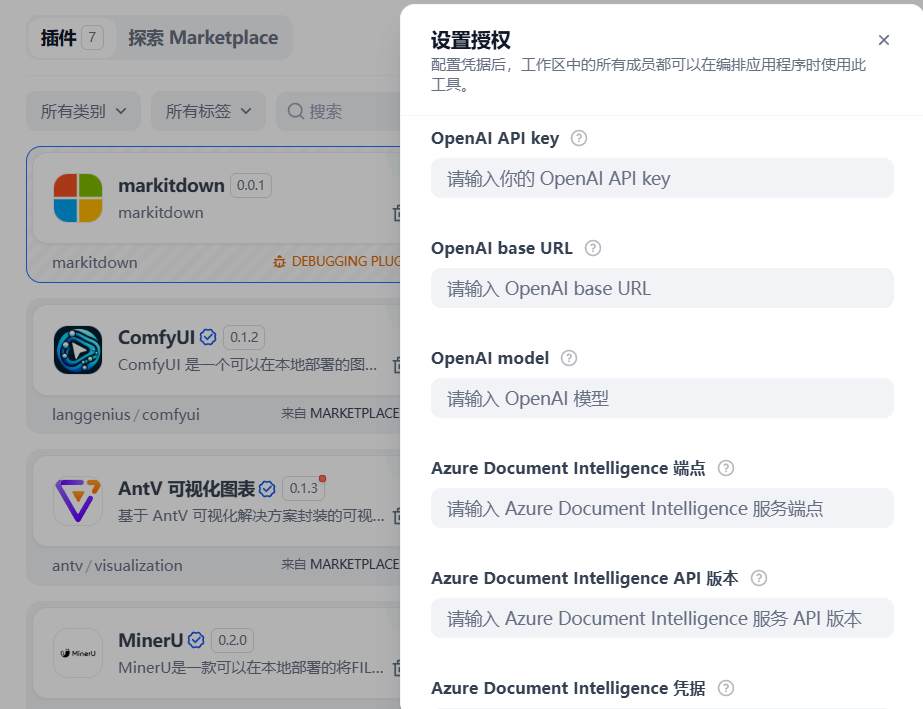
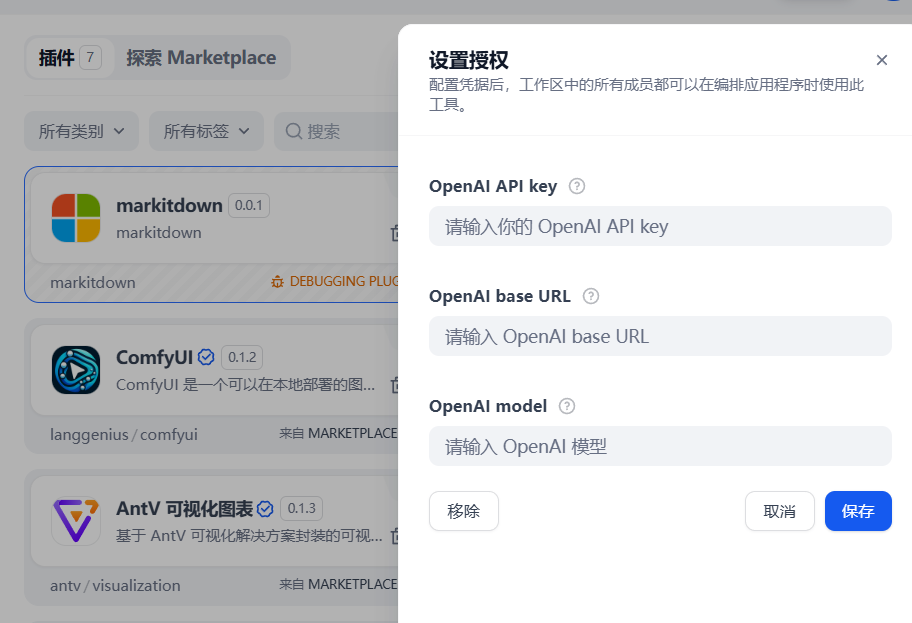
Initial commit: Add markitdown plugin files

Changed region(s): [[0.0, 0.0, 1.0, 1.0], [0.307, 0.122, 0.3684, 0.244], [0.0307, 0.0305, 0.0921, 0.122]]

diff --git a/tools/markitdown.py b/tools/markitdown.py
@@ -26,7 +26,6 @@ class MarkitdownTool(Tool):
     def parser_file(self, tool_parameters: Dict[str, Any]) -> Generator[ToolInvokeMessage, None, None]:
         """Parse file."""
         file: File = tool_parameters.get('file')
-        keep_data_uris: bool = tool_parameters.get('keep_data_uris', False)
 
         if not re.match(r'^https?://', file.url):
             file.url = f"http://{os.getenv("EXPOSE_PLUGIN_DEBUGGING_HOST", self.get_local_ip())}{file.url}"
@@ -62,45 +61,20 @@ class MarkitdownTool(Tool):
             api_key = self.runtime.credentials.get("openai_api_key")
             model = self.runtime.credentials.get("openai_model")
 
-            azure_document_intelligence_endpoint = self.runtime.credentials.get(
-                "azure_document_intelligence_endpoint"
-            )
-            azure_document_intelligence_credential = self.runtime.credentials.get(
-                "azure_document_intelligence_credential"
-            )
-            azure_document_intelligence_api_version = self.runtime.credentials.get(
-                "azure_document_intelligence_api_version"
-            )
-            azure_api_key = self.runtime.credentials.get("azure_api_key")
-
-            if azure_document_intelligence_endpoint:
-                markitdown_docintel_args: Dict[str, Any] = {}
-                markitdown_docintel_args["docintel_endpoint"] = azure_document_intelligence_endpoint
-                if azure_document_intelligence_credential:
-                    markitdown_docintel_args["docintel_credential"] = azure_document_intelligence_credential
-                if azure_document_intelligence_api_version:
-                    markitdown_docintel_args["docintel_api_version"] = azure_document_intelligence_api_version
-                if azure_api_key:
-                    os.environ["AZURE_API_KEY"] = azure_api_key
-
-                markitdown = MarkItDown(
-                    **markitdown_docintel_args, keep_data_uris=keep_data_uris
-                )
-            elif base_url and api_key and model:
+            if base_url and api_key and model:
                 client = OpenAI(
                     base_url=base_url,
                     api_key=api_key
                 )
                 markitdown = MarkItDown(
-                    llm_client=client, llm_model=model, keep_data_uris=keep_data_uris
+                    llm_client=client, llm_model=model
                 )
             else:
-                markitdown = MarkItDown(keep_data_uris=keep_data_uris)
+                markitdown = MarkItDown()
 
             result = markitdown.convert(
                 file.url,
-                stream_info=stream_info,
-                keep_data_uris=True
+                stream_info=stream_info
             )
 
             yield self.create_text_message(result.markdown)

diff --git a/provider/markitdown.py b/provider/markitdown.py
@@ -13,21 +13,7 @@ class MarkitdownProvider(ToolProvider):
 
     def _validate_credentials(self, credentials: dict[str, Any]) -> None:
         try:
-            if credentials["azure_document_intelligence_endpoint"]:
-                markitdown_docintel_args: Dict[str, Any] = {}
-                markitdown_docintel_args["docintel_endpoint"] = credentials["azure_document_intelligence_endpoint"]
-
-                if credentials["azure_document_intelligence_credential"]:
-                    markitdown_docintel_args["docintel_credential"] = credentials["azure_document_intelligence_credential"]
-
-                if credentials["azure_document_intelligence_api_version"]:
-                    markitdown_docintel_args["docintel_api_version"] = credentials["azure_document_intelligence_api_version"]
-
-                if credentials["azure_api_key"]:
-                    os.environ["AZURE_API_KEY"] = credentials["azure_api_key"]
-
-                markitdown = MarkItDown(**markitdown_docintel_args)
-            elif credentials["openai_api_key"] and credentials["openai_base_url"] and credentials["openai_model"]:
+            if credentials["openai_api_key"] and credentials["openai_base_url"] and credentials["openai_model"]:
                 client = OpenAI(
                     api_key=credentials["openai_api_key"],
                     base_url=credentials["openai_base_url"]

diff --git a/README.md b/README.md
@@ -25,14 +25,6 @@ MarkItDown currently supports conversion from:
 
 If you do not want to use Azure Document Intelligence for conversion or Large Language Models for image descriptions, simply click the "Save" button.
 
-#### Azure Document Intelligence
-
-On the Dify navigation page, go to `Tools > MarkItDown > Authorize` and provide the following details to enable Microsoft Document Intelligence for conversion:
-- Azure Document Intelligence endpoint
-- Azure Document Intelligence API version
-- Azure Document Intelligence credentials
-- Azure API key
-
 #### Large Language Models for Image Descriptions
 
 On the Dify navigation page, go to `Tools > MarkItDown > Authorize` and provide the following details to enable Large Language Models for image descriptions:
